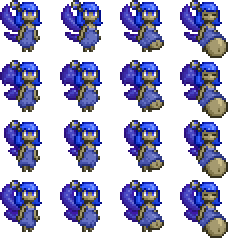
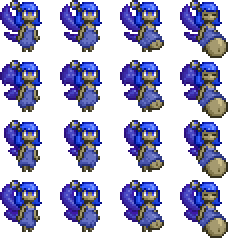
fungus gal weight!! also natural staff droprate

Changed region(s): [[0.2333, 0.0, 0.4375, 0.2333]]

diff --git a/Projectiles/Voraria/Weapons/Summon/ShroomFairy.cs b/Projectiles/Voraria/Weapons/Summon/ShroomFairy.cs
@@ -64,7 +64,7 @@ namespace V2.Projectiles.Voraria.Weapons.Summon
 		{
 			rare = ItemRarityID.Green;
 			tip = Language.GetTextValueWith(
-				"Mods.V2.StatusEffects.Voraria.Buffs.ShroomFairy.Description",
+                "Mods.V2.StatusEffects.Voraria.Summons.ShroomFairy.Description",
 				new
 				{
 					
@@ -112,7 +112,7 @@ namespace V2.Projectiles.Voraria.Weapons.Summon
 
 		public sealed override void SetDefaults()
 		{
-			Projectile.width = 18;
+			Projectile.width = 20;
 			Projectile.height = 28;
 			Projectile.tileCollide = false;
 			Projectile.friendly = true;
@@ -170,14 +170,14 @@ namespace V2.Projectiles.Voraria.Weapons.Summon
 		{
 			return Math.Min(
 				(int)Math.Floor(4.0 * Math.Sqrt(PredProjectile.GetCurrentBellyWeight(projectile))),
-				3
+				3 + GetVisualWeightStage(projectile)
 			);
 		}
 		public static int GetVisualWeightStage(Projectile projectile)
 		{
 			return Math.Min(
 				(int)Math.Floor(1.4 * Math.Sqrt(projectile.AsPred().ExtraWeight)),
-				0
+				3
 			);
 		}
 
@@ -243,13 +243,14 @@ namespace V2.Projectiles.Voraria.Weapons.Summon
 				return;
 			}
 			Projectile.ai[0] = 0f;
-			target = (null, null);
+			if (Projectile.ai[1] > 0f) Projectile.ai[1] -= 1f;
+            target = (null, null);
 			FindTarget(owner);
-			if (target.Item1 != null)
+			if (target.Item1 != null && Projectile.ai[1] <= 0f)
 			{
 				CHARGE(owner, target.Item1, SetSpeedMulti());
 			}
-			else if (target.Item2 != null)
+			else if (target.Item2 != null && Projectile.ai[1] <= 0f)
 			{
 				CHARGE(owner, target.Item2, SetSpeedMulti());
 			}
@@ -400,13 +401,13 @@ namespace V2.Projectiles.Voraria.Weapons.Summon
 			if (!target.active)
 				return;
 
-			float speed = 10f * SpeedMulti;
+			float speed = 25f * SpeedMulti;
 			float inertia = 25f;
 			Vector2 direction = Projectile.position.DirectionTo(target.position);
 			direction.Normalize();
 			Vector2 direction2 = direction * 4;
 			float distance = Projectile.position.Distance(target.position);
-			if (distance <= (int)(180f * SpeedMulti))
+			if (distance <= 180)
 			{
 				Dust.NewDustDirect(Projectile.Center - new Vector2(8, 8), 32, 32, ModContent.DustType<ShroomFairyDust>(), direction2.X, direction2.Y);
 				Dust.NewDustDirect(Projectile.Center - new Vector2(8, 8), 32, 32, ModContent.DustType<ShroomFairyDust>(), direction2.X, direction2.Y);
@@ -417,7 +418,8 @@ namespace V2.Projectiles.Voraria.Weapons.Summon
 
 				Dust.NewDustPerfect(Projectile.Center - new Vector2(8, 8), ModContent.DustType<ShroomFairyDust>(), new Vector2(direction2.X * 3f, direction2.Y * 3f), 0, default, 6f);
 
-				Projectile.position = target.position;
+				Projectile.ai[1] = 8f / SpeedMulti;
+                Projectile.position = target.position;
 				PredProjectile.Swallow(Projectile, target);
 
 				Dust.NewDustDirect(Projectile.Center - new Vector2(8, 8), 32, 32, ModContent.DustType<ShroomFairyDust>(), direction2.X, direction2.Y);
@@ -431,28 +433,44 @@ namespace V2.Projectiles.Voraria.Weapons.Summon
 			{
 				direction *= speed;
 				Projectile.velocity = (Projectile.velocity * (inertia - 1) + direction) / inertia;
-				Projectile.velocity.X = Math.Clamp(Projectile.velocity.X, -15, 15);
-				Projectile.velocity.Y = Math.Clamp(Projectile.velocity.Y, -15, 15);
+				Projectile.velocity.X = Math.Clamp(Projectile.velocity.X, -18, 18);
+				Projectile.velocity.Y = Math.Clamp(Projectile.velocity.Y, -18, 18);
 			}
 		}
 		public void WaitOut(Player owner)
 		{
 			Projectile.ai[0] = (owner.IsFoodFor(Projectile, out bool pastTense) && !pastTense) ? 2f : 1f;
-			Projectile.velocity *= 0.8f;
+			Projectile.velocity *= 0.9f;
 		}
 		public override bool PreDraw(ref Color lightColor)
 		{
 			string text = "V2/Projectiles/Voraria/Weapons/Summon/ShroomFairy";
-			//int size = Math.Min(Extra.GetWeightStage(proj.canGain().CurrentWeight, proj.canGain().WeightStageBase, proj.canGain().WeightStageAdd), 10);
-			//proj.canGain().OldPhaseCount = proj.canGain().CurrentPhaseCount;
-			//proj.canGain().CurrentPhaseCount = size;
-			//if (proj.canGain().CurrentPhaseCount != proj.canGain().OldPhaseCount) UpdateSize(proj, proj.canGain().CurrentPhaseCount);
-			Texture2D sprite = ModContent.Request<Texture2D>(text).Value;
+			int TumSize = GetVisualBellySize(Projectile);
+			int FairySize = GetVisualWeightStage(Projectile);
+			int frameSize = 60;
+			switch (FairySize)
+			{
+				case 0:
+					break;
+				case 1 or 2:
+					text += "_" + FairySize;
+					frameSize = 80;
+					break;
+                case 3:
+                    text += "_" + FairySize;
+                    frameSize = 96;
+                    break;
+            }
+			int ExtraOffset = 0;
+			if (Projectile.direction == -1) ExtraOffset = frameSize / 2;
+            Texture2D sprite = ModContent.Request<Texture2D>(text).Value;
 			SpriteEffects val = Projectile.direction != -1 ? 0 : (SpriteEffects)1;
 			SpriteEffects spriteEffects = val;
-			Rectangle sourceRect = new Rectangle(60 * GetVisualBellySize(Projectile), 60 * Projectile.frame, 60, 60);
-			Main.EntitySpriteDraw(sprite, Projectile.Center - Main.screenPosition + new Vector2(Projectile.width / 2, Projectile.gfxOffY), (Rectangle)sourceRect, lightColor, Projectile.rotation, Vector2.Zero, 1f, spriteEffects, 0f);
-			return false;
+			Rectangle sourceRect = new Rectangle(frameSize * TumSize, frameSize * Projectile.frame, frameSize, frameSize);
+			Main.EntitySpriteDraw(sprite, Projectile.Center - Main.screenPosition + new Vector2(-frameSize / 2 - ExtraOffset, -8 + Projectile.gfxOffY), (Rectangle)sourceRect, lightColor, Projectile.rotation, Vector2.Zero, 1f, spriteEffects, 0f);
+            Texture2D sprite2 = ModContent.Request<Texture2D>(text + "_Fullbright").Value;
+            Main.EntitySpriteDraw(sprite2, Projectile.Center - Main.screenPosition + new Vector2(-frameSize / 2 - ExtraOffset, -8 + Projectile.gfxOffY), (Rectangle)sourceRect, new Color(255,255,255), Projectile.rotation, Vector2.Zero, 1f, spriteEffects, 0f);
+            return false;
 		}
 	}
 }

diff --git a/Items/Voraria/Weapons/Summon/ShroomStaff.cs b/Items/Voraria/Weapons/Summon/ShroomStaff.cs
@@ -9,6 +9,7 @@ using Terraria;
 using Terraria.Audio;
 using Terraria.DataStructures;
 using Terraria.GameContent;
+using Terraria.GameContent.ItemDropRules;
 using Terraria.ID;
 using Terraria.Localization;
 using Terraria.ModLoader;
@@ -84,4 +85,18 @@ namespace V2.Items.Voraria.Weapons.Summon
 			ItemID.Sets.ShimmerTransformToItem[ItemID.SlimeStaff] = ModContent.ItemType<ShroomStaff>();
 		}
 	}
+	public class ShroomStaffDrop : GlobalNPC
+	{
+        public override void ModifyNPCLoot(NPC npc, NPCLoot npcLoot)
+        {
+            if (npc.type == NPCID.SporeBat || npc.type == NPCID.ZombieMushroom || npc.type == NPCID.ZombieMushroomHat || npc.type == NPCID.SporeSkeleton)
+            {
+                npcLoot.Add(ItemDropRule.Common(ModContent.ItemType<ShroomStaff>(), 90));
+            }
+            else if(npc.type == NPCID.AnomuraFungus || npc.type == NPCID.MushiLadybug || npc.type == NPCID.FungoFish || npc.type == NPCID.FungiBulb || npc.type == NPCID.GiantFungiBulb)
+            {
+                npcLoot.Add(ItemDropRule.Common(ModContent.ItemType<ShroomStaff>(), 50));
+            }
+        }
+    }
 }
